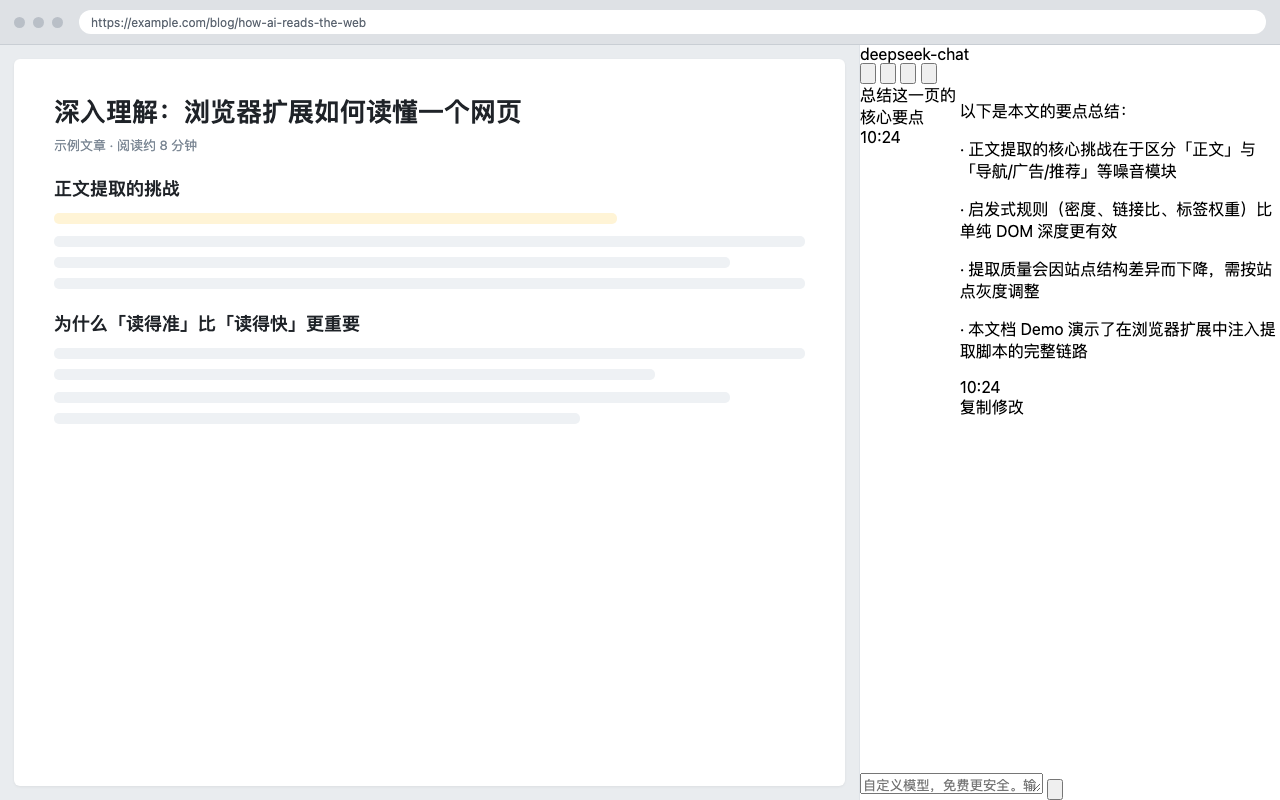
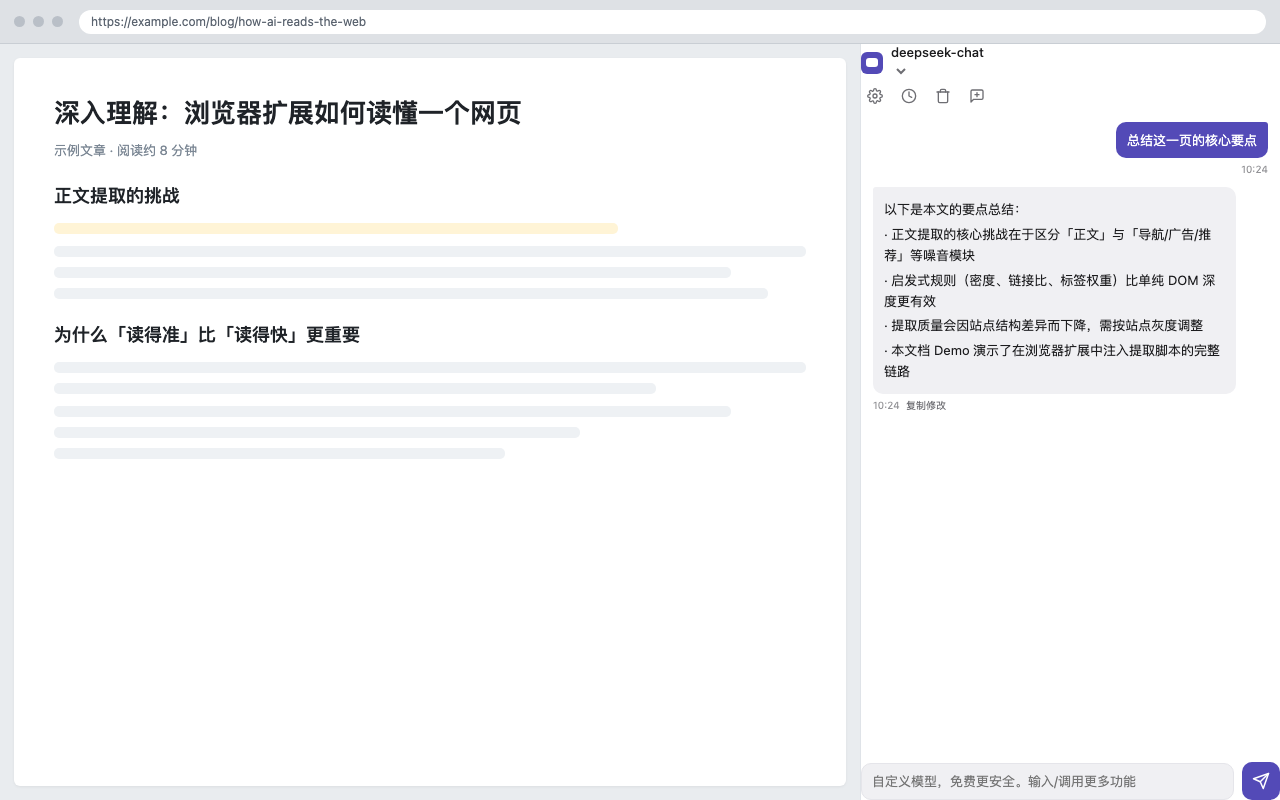
fix(store-shots): 修复商店截图——内联 style.css（原 link 路径多一层 ../ 导致全白）/ 补 .chat 容器（.msg.user 被顶到底部）/ .side 加 position:relative（空状态跑到左页）；同步重截 4 张并修正设置页反馈文案

diff --git a/src/options/index.html b/src/options/index.html
@@ -97,7 +97,7 @@
 
     <section class="card">
       <div class="card-title">反馈和建议</div>
-      <p class="sub-block-desc">有任何想法、建议，或遇到问题，欢迎给我发邮件。</p>
+      <p class="sub-block-desc">有任何想法、建议，或遇到问题，欢迎到 GitHub 提交 Issue。</p>
       <div class="feedback-row">
         <span class="email" id="emailText">https://github.com/SnailOldBro/SnailShell-AI-Assistant/issues</span>
         <button id="btnCopyEmail" class="ghost" type="button">复制</button>

diff --git a/publish/gen-screenshots.py b/publish/gen-screenshots.py
@@ -3,17 +3,25 @@
 """
 蜗牛壳AI助理 · Edge/Chrome 商店截图生成器
 ----------------------------------------
-生成「模拟浏览器窗口」版商店截图：左侧一篇示例网页，右侧真实侧边栏 UI（复用 src/sidepanel/style.css）。
-消息气泡的 DOM 结构与 src/sidepanel/app.js 的 renderUser / streamResponse 完全一致，视觉效果与真产品一致。
+生成「模拟浏览器窗口」版商店截图：左侧一篇示例网页，右侧真实侧边栏 UI。
+
+**关键实现（踩过的坑）**
+- 早期版本用 `<link rel="stylesheet" href="../src/sidepanel/style.css">`，
+  但 stub 本身就生成在 `src/sidepanel/` 下，`../` 多了一层 → 指向
+  `src/src/sidepanel/style.css` → CSS 根本没加载 → 截图全是白底无样式。
+  现改为**把 style.css 内联进 <style>**，与相对路径彻底解耦，file:// 下也稳。
+- 模板用字符串 replace 而非 str.format：真实 CSS 里有 127 对花括号，
+  用 format 会被当成占位符炸掉。
 
 用法：
-    /usr/bin/python3 publish/gen-screenshots.py          # 生成 stub（供 headless Chrome 截图）
-    # 之后分多次调用 Chrome 截图（注意：一次 Bash 只能起一个 Chrome，见 memory）
-    # 截图完会自动提示删除命令
+    /usr/bin/python3 publish/gen-screenshots.py   # 生成 stub，并打印截图命令
+    # 逐条执行 Chrome 截图（一次 Bash 只能起一个 Chrome，见项目 memory）
+    /usr/bin/python3 publish/gen-screenshots.py --shoot   # 生成 + 直接截三张
 
 输出：publish/screenshots/*.png (1280x800)
 """
 import os
+import subprocess
 import sys
 
 BASE = os.path.dirname(os.path.dirname(os.path.abspath(__file__)))
@@ -22,41 +30,51 @@ SHOT_DIR = os.path.join(BASE, "publish", "screenshots")
 
 HEADER = """<!DOCTYPE html><html lang="zh-CN"><head><meta charset="UTF-8">
 <title>蜗牛壳AI助理</title>
-<link rel="stylesheet" href="{css}" />
 <style>
-  html,body {{ margin:0; padding:0; height:100%; background:#e9ecef; }}
-  body {{ font-family:-apple-system,BlinkMacSystemFont,"Segoe UI","PingFang SC","Microsoft YaHei",sans-serif; }}
-  .window {{ display:flex; flex-direction:column; height:100vh; }}
+/* ===== 真实侧栏样式（src/sidepanel/style.css 内联）===== */
+__SIDE_CSS__
+</style>
+<style>
+  html,body { margin:0; padding:0; height:100%; background:#e9ecef; }
+  body { font-family:-apple-system,BlinkMacSystemFont,"Segoe UI","PingFang SC","Microsoft YaHei",sans-serif; }
+  .window { display:flex; flex-direction:column; height:100vh; }
   /* 模拟浏览器工具栏 */
-  .chrome-bar {{ height:44px; background:#dee1e5; display:flex; align-items:center;
-                 gap:8px; padding:0 14px; border-bottom:1px solid #c9ced4; }}
-  .chrome-bar .dot {{ width:11px; height:11px; border-radius:50%; background:#b9bfc7; }}
-  .chrome-addr {{ flex:1; height:24px; background:#fff; border-radius:12px; margin-left:8px;
-                  display:flex; align-items:center; padding:0 12px; font-size:12px; color:#5b6470; }}
+  .chrome-bar { height:44px; background:#dee1e5; display:flex; align-items:center;
+                gap:8px; padding:0 14px; border-bottom:1px solid #c9ced4; }
+  .chrome-bar .dot { width:11px; height:11px; border-radius:50%; background:#b9bfc7; }
+  .chrome-addr { flex:1; height:24px; background:#fff; border-radius:12px; margin-left:8px;
+                 display:flex; align-items:center; padding:0 12px; font-size:12px; color:#5b6470; }
   /* 主体：左网页 + 右侧栏 */
-  .stage {{ flex:1; display:flex; min-height:0; }}
-  .demo-page {{ flex:1; background:#fff; margin:14px; border-radius:6px; padding:34px 40px;
-                overflow:hidden; box-shadow:0 1px 3px rgba(0,0,0,.06); }}
-  .demo-page h1 {{ font-size:26px; margin:0 0 6px; color:#1f2328; }}
-  .demo-page .sub {{ font-size:13px; color:#7b8794; margin-bottom:20px; }}
-  .demo-page h2 {{ font-size:18px; color:#1f2328; margin:22px 0 8px; }}
-  .demo-page p {{ font-size:14px; line-height:1.9; color:#3c434b; margin:0 0 12px; }}
-  .demo-page .ph {{ height:11px; border-radius:5px; background:#eef1f4; margin:0 0 10px; }}
-  .demo-page .ph.w90 {{ width:90%; }} .demo-page .ph.w100 {{ width:100%; }}
-  .demo-page .ph.w70 {{ width:70%; }} .demo-page .ph.w80 {{ width:80%; }}
-  .demo-page .hl {{ background:#fff4d6; height:11px; border-radius:5px; margin:0 0 12px; width:75%; }}
-  /* 右侧栏：与真实 sidePanel 同宽同高 */
-  .side {{ width:420px; flex-shrink:0; background:#fff; border-left:1px solid #dfe3e8;
-           display:flex; flex-direction:column; min-height:0; }}
-  .sh-top {{ flex-shrink:0; }}
-  .sh-bottom {{ flex-shrink:0; }}
-  .sh-mid {{ flex:1; min-height:0; display:flex; }}
-  /* 截图修正：headless 下 select 渲染成空方块，且 .quote-bar 会盖过 .hidden */
-  .model-select {{ display:none; }}
-  .icon-btn {{ flex-shrink:0; }}
-  body.no-quote #quoteBar {{ display:none !important; }}
-  body.show-quote #quoteBar {{ display:flex !important; }}
-</style></head><body class="{bodycls}">
+  .stage { flex:1; display:flex; min-height:0; }
+  .demo-page { flex:1; background:#fff; margin:14px; border-radius:6px; padding:34px 40px;
+                overflow:hidden; box-shadow:0 1px 3px rgba(0,0,0,.06); }
+  .demo-page h1 { font-size:26px; margin:0 0 6px; color:#1f2328; }
+  .demo-page .sub { font-size:13px; color:#7b8794; margin-bottom:20px; }
+  .demo-page h2 { font-size:18px; color:#1f2328; margin:22px 0 8px; }
+  .demo-page p { font-size:14px; line-height:1.9; color:#3c434b; margin:0 0 12px; }
+  .demo-page .ph { height:11px; border-radius:5px; background:#eef1f4; margin:0 0 10px; }
+  .demo-page .ph.w90 { width:90%; } .demo-page .ph.w100 { width:100%; }
+  .demo-page .ph.w70 { width:70%; } .demo-page .ph.w80 { width:80%; }
+  .demo-page .ph.w95 { width:95%; } .demo-page .ph.w60 { width:60%; }
+  .demo-page .hl { background:#fff4d6; height:11px; border-radius:5px; margin:0 0 12px; width:75%; }
+  /* 右侧栏：与真实 sidePanel 同宽同高
+     position:relative 必须加！.empty-state / .unlock-panel 用的是
+     position:absolute; inset:52px 0 0 0，若无定位祖先会横跨整个 1280px
+     页面（截图里空状态会跑到左侧假网页上），这是早期截图的第三个错误 */
+  .side { position:relative; width:420px; flex-shrink:0; background:#fff;
+          border-left:1px solid #dfe3e8; display:flex; flex-direction:column; min-height:0; }
+  .sh-top { flex-shrink:0; }
+  .sh-bottom { flex-shrink:0; }
+  /* 必须保持 column：真实侧栏是 header / main.chat / footer 三层 flex 列，
+     若这里是 row，.msg.user{align-self:flex-end} 会变成「垂直底部对齐」，
+     导致用户气泡跑到助手回答下方（这是早期截图的第二个错误） */
+  .sh-mid { flex:1; min-height:0; display:flex; flex-direction:column; }
+  /* 修正：headless 下 select 若渲染异常则隐藏兜底（CSS 正常时不触发） */
+  .model-select.is-broken { display:none; }
+  .icon-btn { flex-shrink:0; }
+  body.no-quote #quoteBar { display:none !important; }
+  body.show-quote #quoteBar { display:flex !important; }
+</style></head><body class="__BODYCLS__">
 <div class="window">
   <div class="chrome-bar">
     <span class="dot"></span><span class="dot"></span><span class="dot"></span>
@@ -71,24 +89,26 @@ HEADER = """<!DOCTYPE html><html lang="zh-CN"><head><meta charset="UTF-8">
       <p><div class="ph w100"></div><div class="ph w90"></div><div class="ph w95"></div></p>
       <h2>为什么「读得准」比「读得快」更重要</h2>
       <p><div class="ph w100"></div><div class="ph w80"></div></p>
-      <p><div class="ph w90"></div><div class="ph w70"></div></p>
+      <p><div class="ph w90"></div><div class="ph w70"></div><div class="ph w60"></div></p>
     </div>
     <div class="side">
       <div class="sh-top">
-{header}
+__HEADER__
       </div>
       <div class="sh-mid">
-{chat}
+<main class="chat">
+__CHAT__
+</main>
       </div>
       <div class="sh-bottom">
-{composer}
+__COMPOSER__
       </div>
     </div>
   </div>
 </div>
 </body></html>"""
 
-# 从真实 index.html 拆出 header 与 composer（保证 DOM/样式 100% 一致）
+# 从真实 index.html 拆出 header 与 composer（保证 DOM 与真产品一致）
 def extract_from_index():
     with open(os.path.join(SP, "index.html"), encoding="utf-8") as f:
         html = f.read()
@@ -101,6 +121,14 @@ def extract_from_index():
     return header, composer
 
 HDR, CMP = extract_from_index()
+
+def load_side_css():
+    path = os.path.join(SP, "style.css")
+    with open(path, encoding="utf-8") as f:
+        css = f.read()
+    if "</style" in css.lower():
+        raise SystemExit("style.css 含 </style>，不能直接内联，请先转义")
+    return css
 
 def msg(cls, body, meta="10:24"):
     return (
@@ -119,11 +147,11 @@ SCENES = {
               "<p>· 启发式规则（密度、链接比、标签权重）比单纯 DOM 深度更有效</p>"
               "<p>· 提取质量会因站点结构差异而下降，需按站点灰度调整</p>"
               "<p>· 本文档 Demo 演示了在浏览器扩展中注入提取脚本的完整链路</p>"
-              "</div><div class=\"msg-meta\"><span class=\"msg-time\">10:24</span>"
-              "<div class=\"msg-actions\"><span class=\"action-btn\">复制</span>"
-              "<span class=\"action-btn\">修改</span></div></div></div>"
+              "</div>"
+              '<div class="msg-meta"><span class="msg-time">10:24</span>'
+              '<div class="msg-actions"><span class="action-btn">复制</span>'
+              '<span class="action-btn">修改</span></div></div></div>'
         ),
-        "quote": False,
         "input": "继续展开第二点",
     },
     "2-quote": {
@@ -138,26 +166,27 @@ SCENES = {
               "<p>这句话的意思是：判断哪段是正文时，不能只看它在 DOM 里有多深，</p>"
               "<p>而要看<strong>文本密度</strong>（文字占比）、<strong>链接密度</strong>（链接占多少）</p>"
               "<p>与<strong>标签权重</strong>（article/main 权重最高）这几个特征的加权结果。</p>"
-              "</div><div class=\"msg-meta\"><span class=\"msg-time\">10:31</span>"
-              "<div class=\"msg-actions\"><span class=\"action-btn\">复制</span>"
-              "<span class=\"action-btn\">修改</span></div></div></div>"
+              "</div>"
+              '<div class="msg-meta"><span class="msg-time">10:31</span>'
+              '<div class="msg-actions"><span class="action-btn">复制</span>'
+              '<span class="action-btn">修改</span></div></div></div>'
         ),
-        "quote": False,
         "input": "继续",
     },
     "3-empty": {
-        "model": "",
+        "model": "未配置模型",
         "chat": "",
-        "quote": False,
-        "input": "自定义模型，免费更安全。输入/调用更多功能",
         "empty": True,
+        "input": "自定义模型，免费更安全。输入 / 调用更多功能",
     },
 }
+
+CHROME = "/Applications/Google Chrome.app/Contents/MacOS/Google Chrome"
 
 def build(key, cfg):
     # 把 model-name 注入 header 的品牌区（真实 DOM 由 app.js 填充，这里预填以便截图）
     header = HDR.replace('<div class="model-name" id="modelName"></div>',
-                         f'<div class="model-name" id="modelName">{cfg.get("model","未配置模型")}</div>')
+                         f'<div class="model-name" id="modelName">{cfg.get("model", "未配置模型")}</div>')
 
     if cfg.get("empty"):
         chat = ('<div id="emptyState" class="empty-state">'
@@ -168,33 +197,52 @@ def build(key, cfg):
     else:
         chat = cfg["chat"]
 
-    # 场景内手写了 quote-bar 才显示引用条，否则强制隐藏（绕开 .hidden 被 .quote-bar 覆盖）
+    # 只有手写了 quote-bar 的场景才显示引用条，否则强制隐藏（绕开 .hidden 被 .quote-bar 覆盖）
     bodycls = "show-quote" if "quote-bar" in chat else "no-quote"
-    return HEADER.format(
-        css="../src/sidepanel/style.css",
-        header=header,
-        chat=chat,
-        composer=CMP,
-        bodycls=bodycls,
-    )
+    return (HEADER
+            .replace("__SIDE_CSS__", load_side_css())
+            .replace("__BODYCLS__", bodycls)
+            .replace("__HEADER__", header)
+            .replace("__CHAT__", chat)
+            .replace("__COMPOSER__", CMP))
+
+def shoot(key):
+    stub = os.path.join(SP, "_shot_%s.html" % key)
+    out = os.path.join(SHOT_DIR, key + ".png")
+    cmd = [CHROME, "--headless=new", "--disable-gpu", "--no-sandbox",
+           "--disable-software-rasterizer", "--hide-scrollbars",
+           "--screenshot=" + out, "--window-size=1280,800",
+           "--virtual-time-budget=3000", "file://" + stub]
+    r = subprocess.run(cmd, capture_output=True, text=True)
+    size = os.path.getsize(out) if os.path.exists(out) else 0
+    print(f"  {key}.png  {size} bytes" + ("  ⚠ 输出为空" if size == 0 else ""))
 
 def main():
     os.makedirs(SHOT_DIR, exist_ok=True)
-    out = []
-    for key, cfg in SCENES.items():
+    if "--shoot" in sys.argv:
+        for key in SCENES:
+            with open(os.path.join(SP, "_shot_%s.html" % key), "w",
+                      encoding="utf-8") as f:
+                f.write(build(key, SCENES[key]))
+            shoot(key)
+        print("\n清理 stub：rm -f src/sidepanel/_shot_*.html")
+        return
+
+    print("stub ->")
+    for key in SCENES:
         path = os.path.join(SP, "_shot_%s.html" % key)
         with open(path, "w", encoding="utf-8") as f:
-            f.write(build(key, cfg))
-        out.append(path)
-        print("stub ->", path)
+            f.write(build(key, SCENES[key]))
+        print("  ", path)
     print("\n请逐条执行 Chrome 截图（一次只能起一个 Chrome）：")
     for key in SCENES:
-        print(f'  "/Applications/Google Chrome.app/Contents/MacOS/Google Chrome" '
-              f'--headless=new --disable-gpu --hide-scrollbars '
+        print(f'  "{CHROME}" --headless=new --disable-gpu --no-sandbox '
+              f'--disable-software-rasterizer --hide-scrollbars '
               f'--screenshot="publish/screenshots/{key}.png" '
               f'--window-size=1280,800 --virtual-time-budget=3000 '
               f'"file://{os.path.join(SP, "_shot_%s.html" % key)}"')
-    print("\n截图完成后清理 stub：rm -f src/sidepanel/_shot_*.html")
+    print("\n一次性截三张：/usr/bin/python3 publish/gen-screenshots.py --shoot")
+    print("截图完成后清理 stub：rm -f src/sidepanel/_shot_*.html")
 
 if __name__ == "__main__":
     main()
